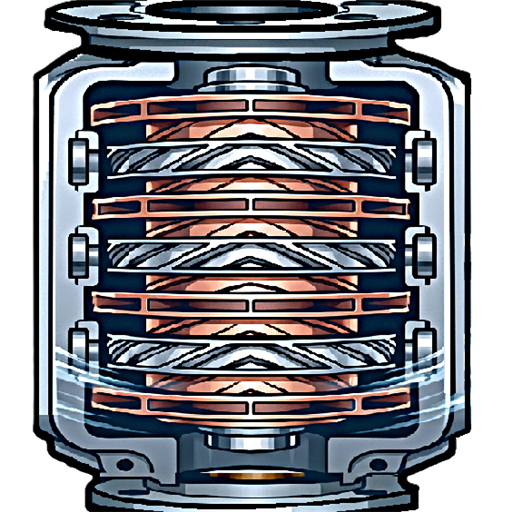
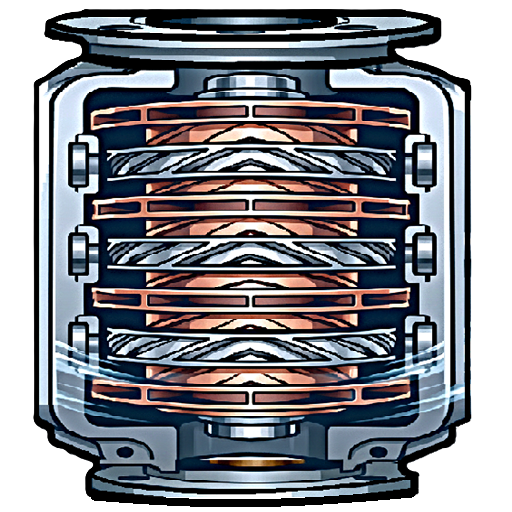
chore(pwa): remove obsolete and unused icono.ico

diff --git a/app_unified/vite.config.ts b/app_unified/vite.config.ts
@@ -28,7 +28,7 @@ export default defineConfig(({ mode }) => {
       react(),
       VitePWA({
         registerType: 'autoUpdate',
-        includeAssets: ['favicon.ico', 'icono.png', 'icono192.png', 'icono512.png', 'app-logo.png', 'robots.txt', 'apple-touch-icon.png'],
+        includeAssets: ['icono.png', 'icono192.png', 'icono512.png', 'app-logo.png', 'robots.txt', 'apple-touch-icon.png'],
         workbox: {
           maximumFileSizeToCacheInBytes: 4 * 1024 * 1024,
         },

diff --git a/app_unified/index.html b/app_unified/index.html
@@ -5,7 +5,6 @@
     <meta charset="UTF-8" />
     <meta name="viewport" content="width=device-width, initial-scale=1.0" />
     <title>ESP DESIGN PRO - AJM </title>
-    <link rel="icon" type="image/x-icon" href="/icono.ico?v=7.0" />
     <link rel="icon" type="image/png" href="/icono.png?v=7.0" />
     <link rel="apple-touch-icon" href="/icono.png?v=7.0" />
     <link rel="manifest" href="/manifest.json?v=7.0" crossorigin="use-credentials" />
